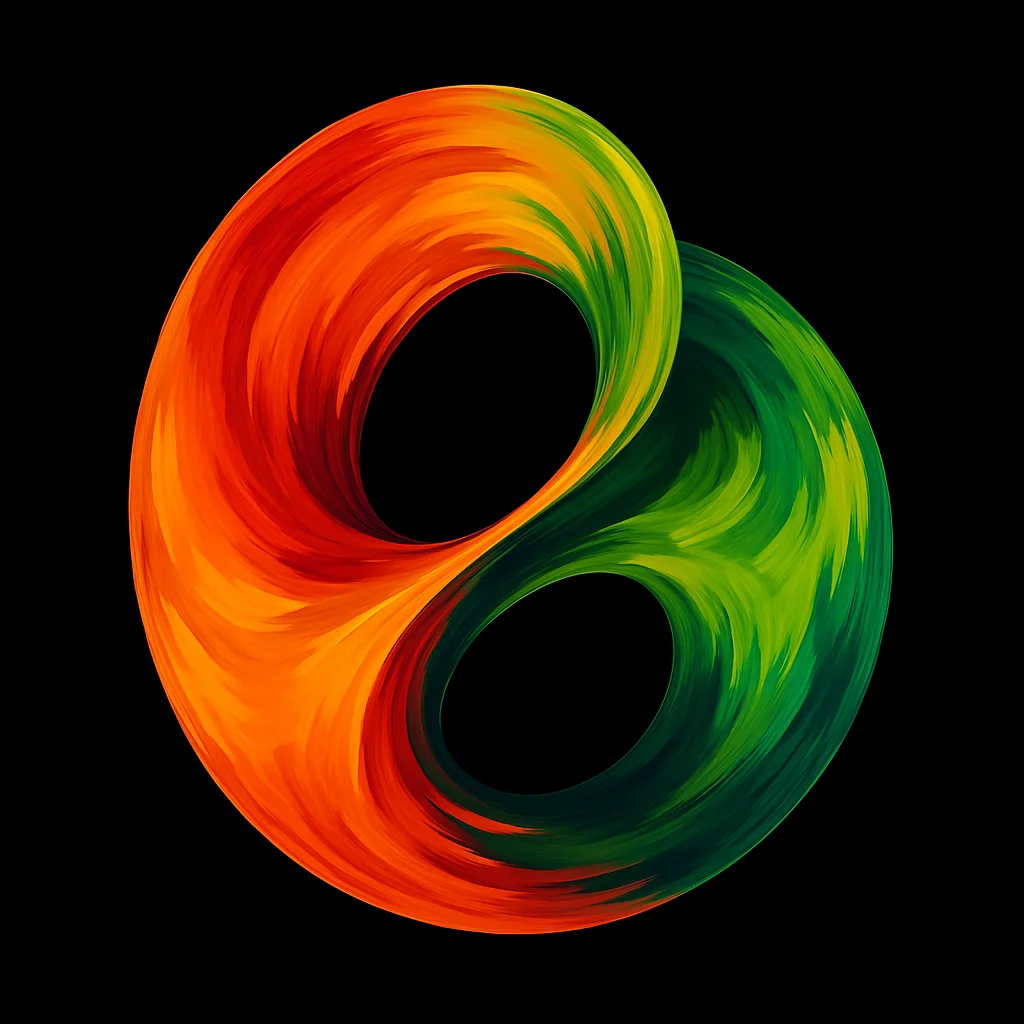
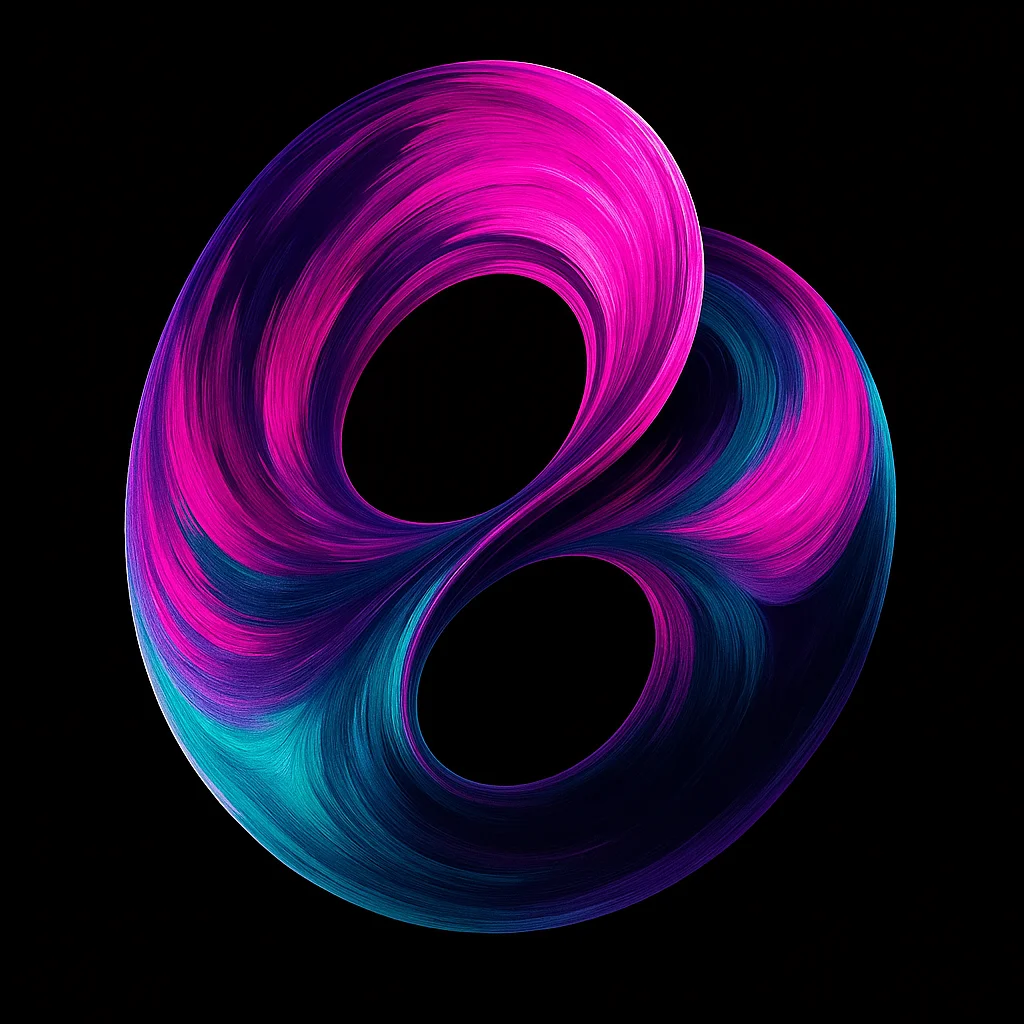
Nuevas imagenes

diff --git a/src/constants/index.js b/src/constants/index.js
@@ -7,6 +7,7 @@ import project6 from "../assets/projects/project-6.webp";
 import project7 from "../assets/projects/project-7.webp";
 import project8 from "../assets/projects/project-8.webp";
 import project9 from "../assets/projects/project-9.webp";
+import project10 from "../assets/projects/project-10.webp";
 import project12 from "../assets/projects/project-12.webp";
 
 
@@ -119,7 +120,7 @@ export const PROJECTS = {
     },
     {
       title: "App Fast Food",
-      image: project1,
+      image: project10,
       description: "Aplicación para pedidos de comida rápida con interfaz optimizada para rapidez y usabilidad.",
       technologies: ["Figma", "Adobe XD"],
       url:"https://www.figma.com/proto/ksTOUwsfr2iGv0NoEF2Qmn/Fast-Food-App?node-id=2-3&p=f&t=YC8dQg8HQdfKr3ZX-0&scaling=contain&content-scaling=fixed&page-id=0%3A1"
